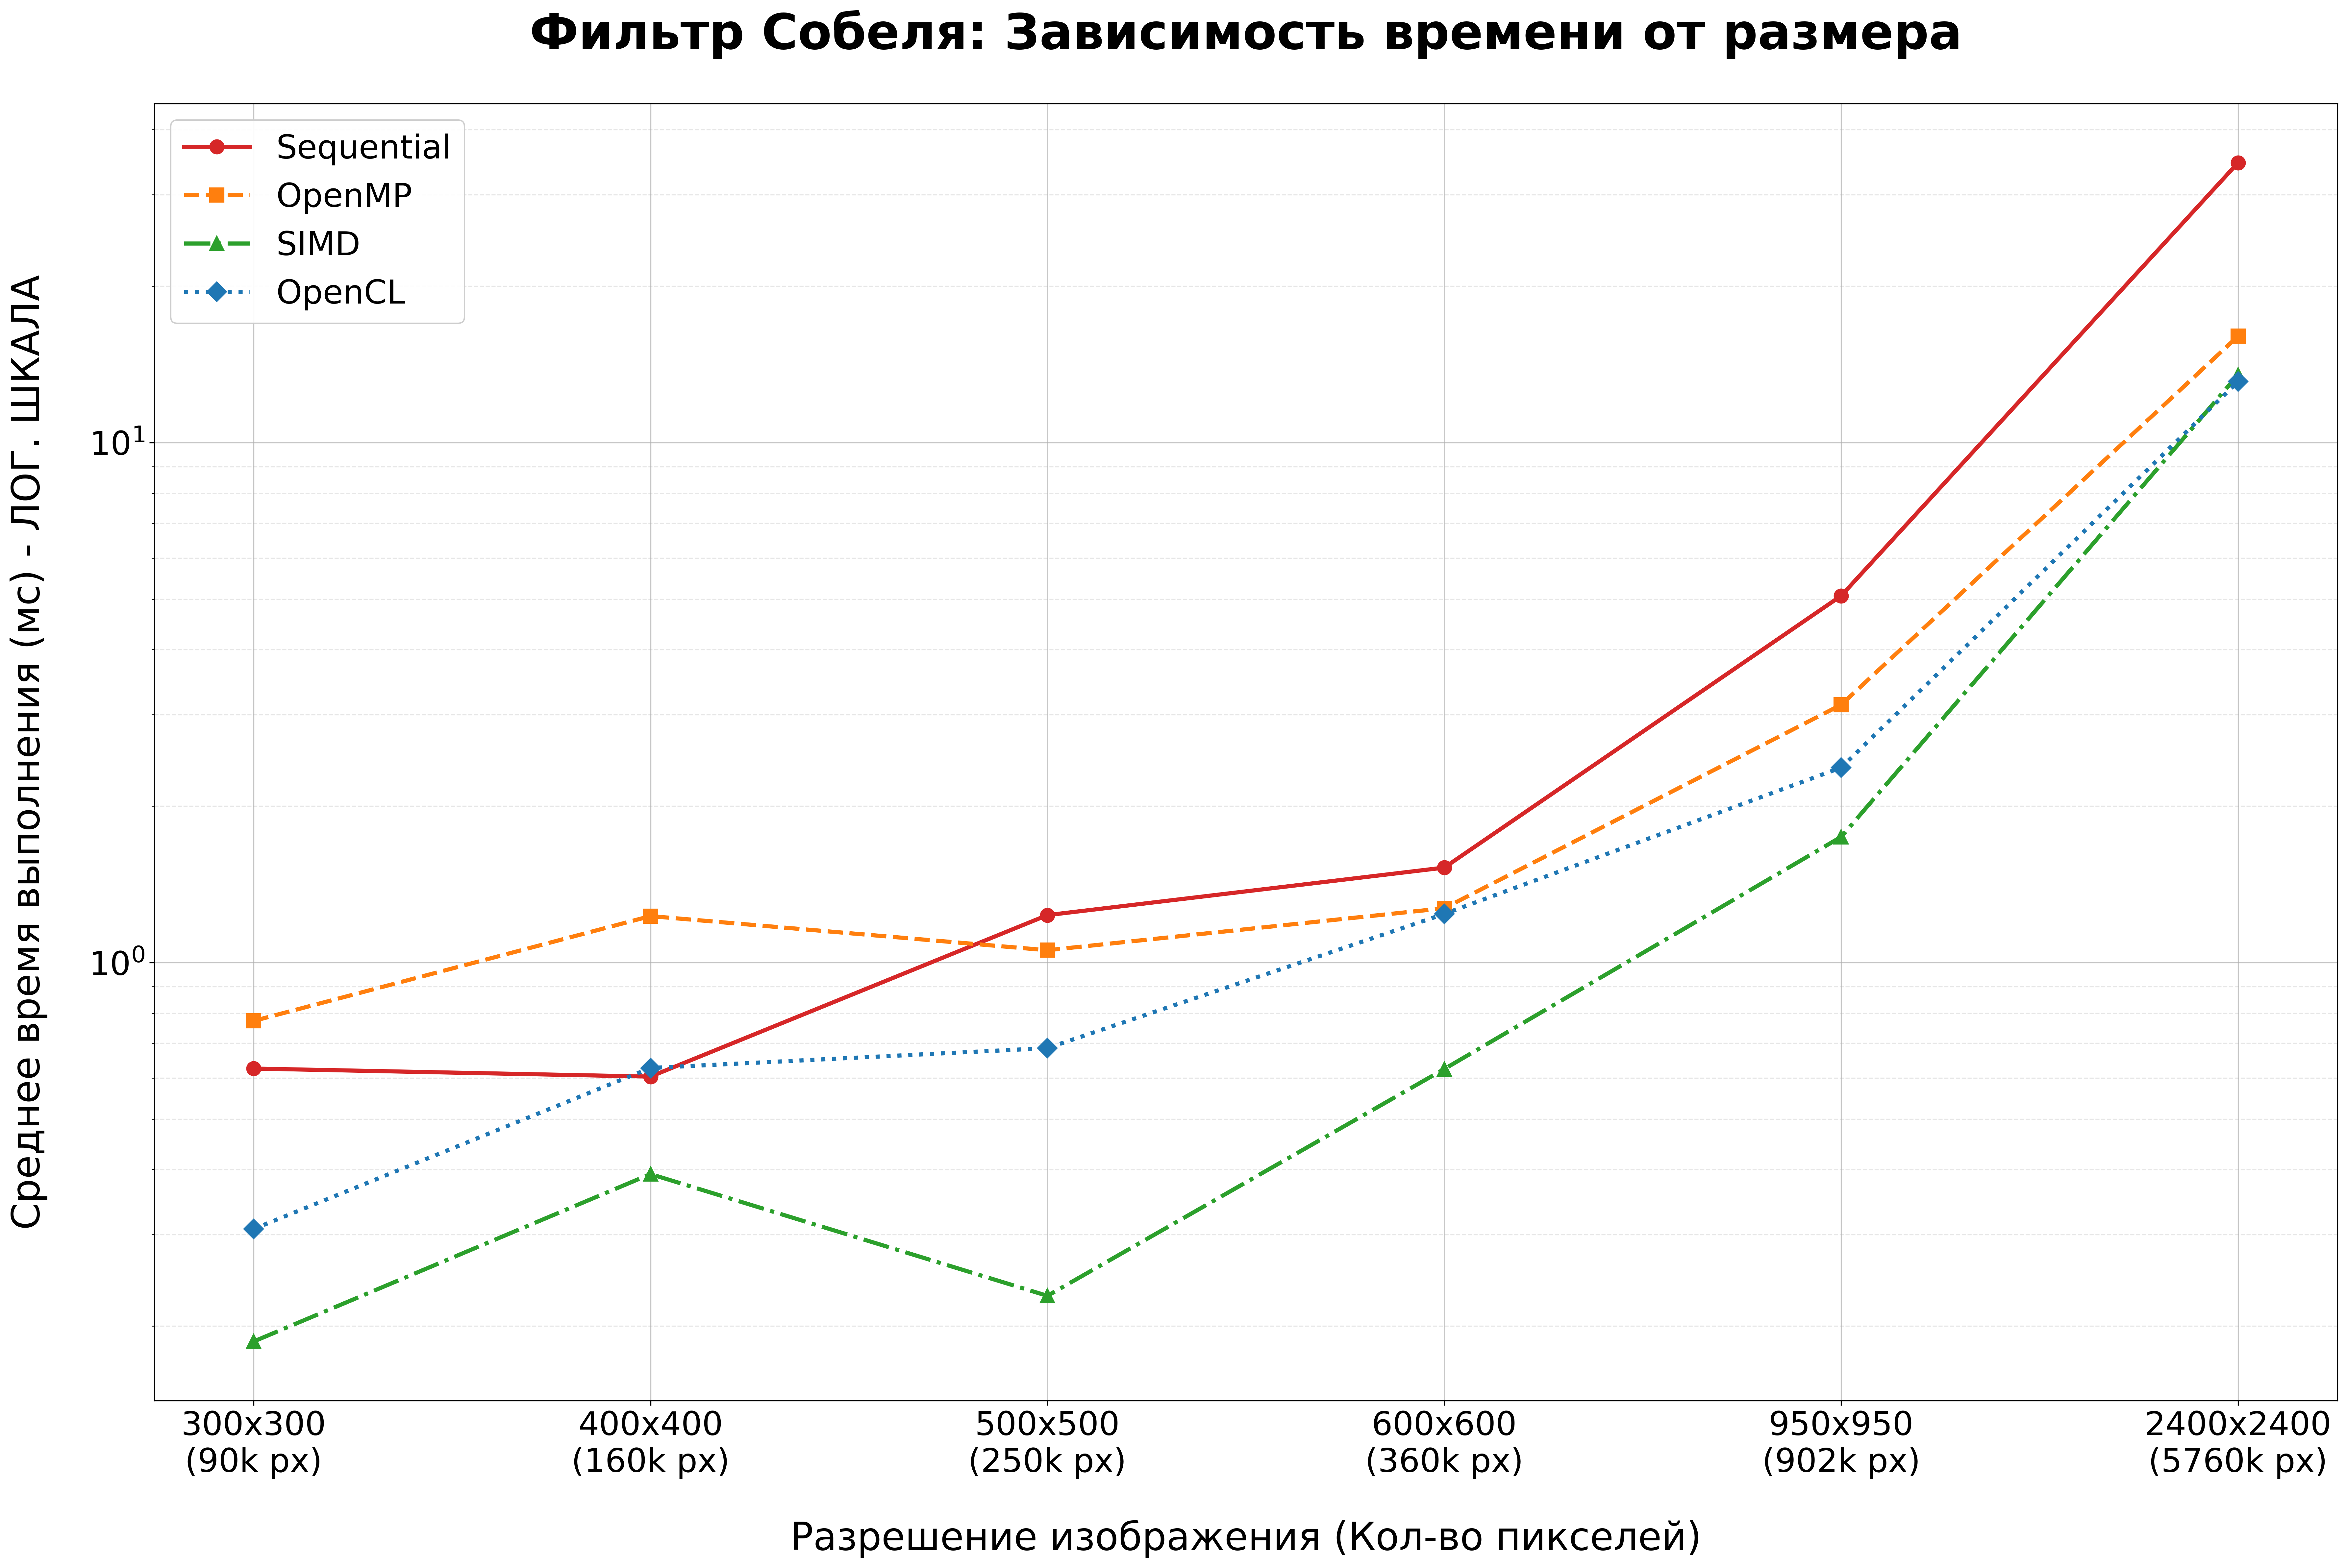
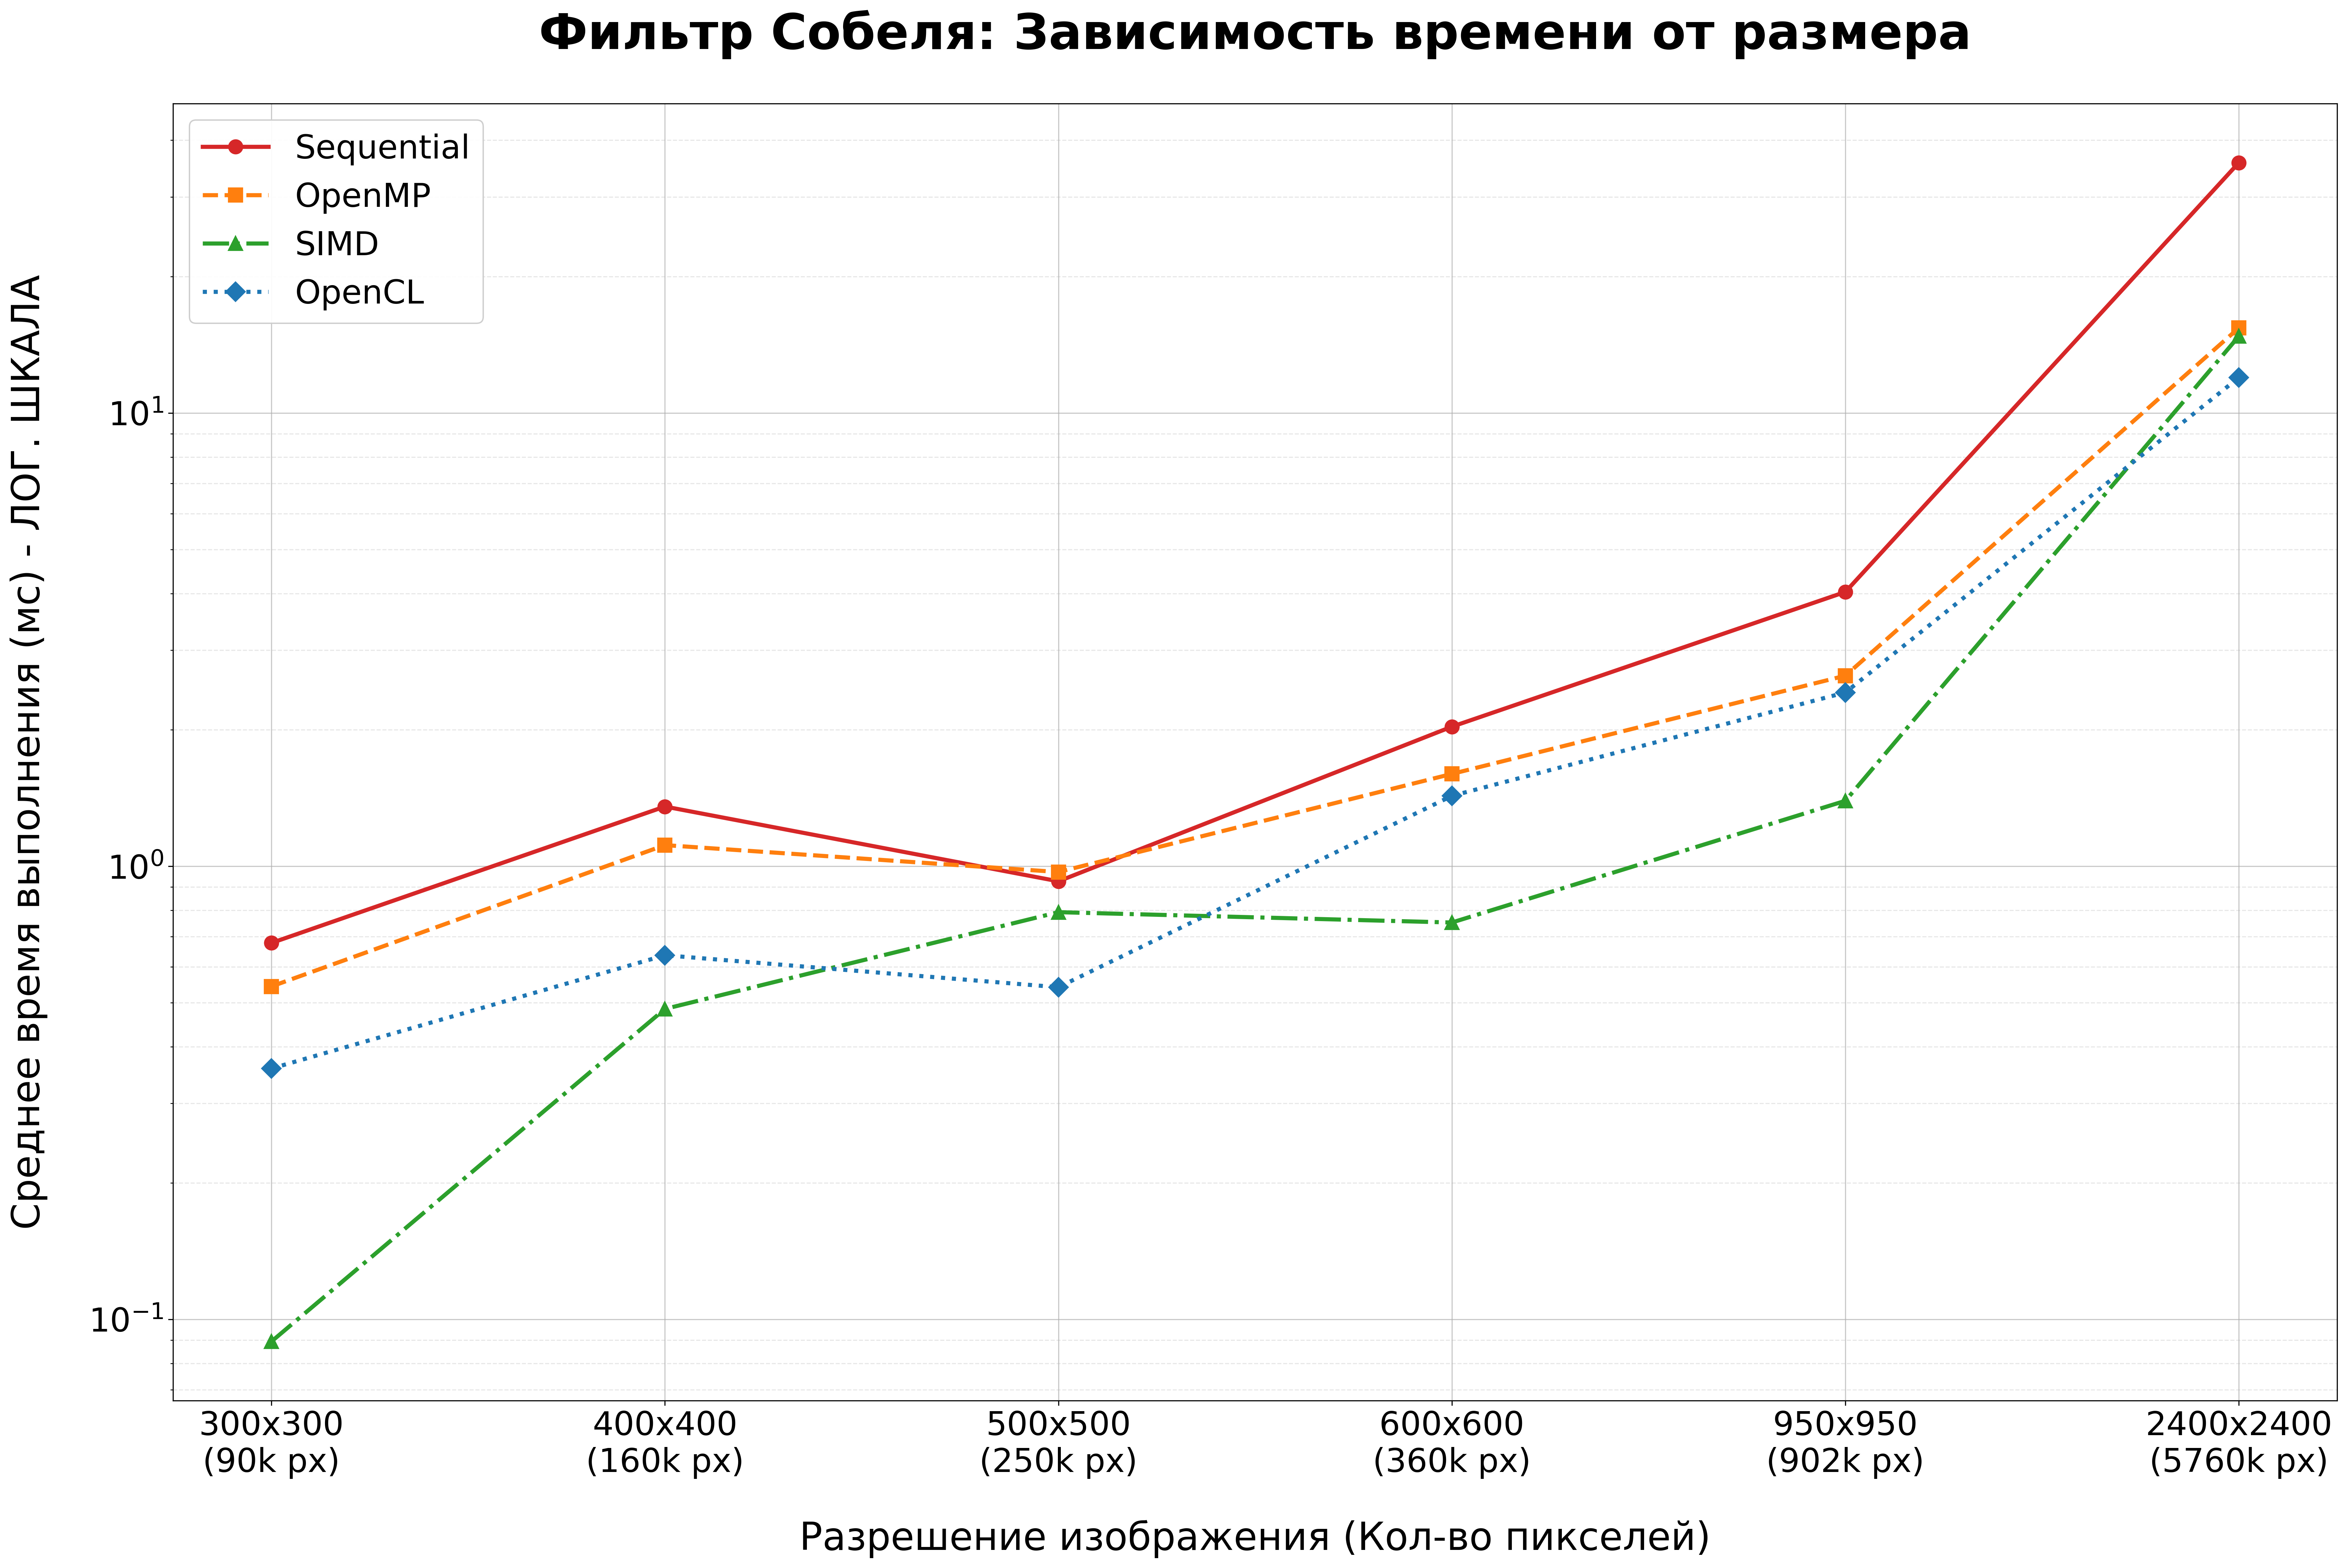
minor fix

diff --git a/main.py b/main.py
@@ -7,24 +7,24 @@ resolutions = ['300x300', '400x400', '500x500', '600x600', '950x950', '2400x2400
 pixels = [90000, 160000, 250000, 360000, 902500, 5760000]
 
 invert_data = {
-    'Sequential': [0.0155, 0.0334, 0.0775, 0.2523, 1.3344, 7.9665],
-    'OpenMP':     [0.3622, 0.3739, 0.5290, 0.8912, 1.3897, 6.2791],
-    'SIMD':       [0.0148, 0.0300, 0.0481, 0.4329, 1.0737, 6.5965],
-    'OpenCL':     [0.3712, 0.4646, 0.4417, 0.9628, 2.5910, 11.4874],
+    'Sequential': [0.0346, 0.0420, 0.0434, 0.3839, 1.0074, 5.3803],
+    'OpenMP':     [0.6078, 0.4911, 0.4350, 0.5095, 1.6469, 7.7196],
+    'SIMD':       [0.0172, 0.1136, 0.0690, 0.2911, 0.6726, 5.0472],
+    'OpenCL':     [0.4902, 0.5812, 0.6945, 1.4055, 2.6415, 9.2447],
 }
 
 median_data = {
-    'Sequential': [26.7090, 44.1900, 37.1961, 44.1509, 218.9529, 1323.2887],
-    'OpenMP':     [4.0899,  4.8766,  5.5758,  5.5720,  19.9564,  113.2147],
-    'SIMD':       [1.8800,  2.4666,  2.7516,  2.2350,  9.8878,   47.2766],
-    'OpenCL':     [0.3947,  0.3223,  0.5925,  1.0238,  3.1810,   13.0775],
+    'Sequential': [15.1532, 30.7538, 36.6511, 36.9428, 152.1254, 984.4886],
+    'OpenMP':     [5.0534,  6.6268,  5.7356,  5.6820,  47.8455,  117.4008],
+    'SIMD':       [0.7909,  4.2538,  2.4504,  3.4945,  7.4681,   47.1407],
+    'OpenCL':     [0.5023,  0.8760,  0.5615,  1.1622,  2.1135,   11.7677],
 }
 
 sobel_data = {
-    'Sequential': [0.6257, 0.6038, 1.2344, 1.5235, 5.0784, 34.5687],
-    'OpenMP':     [0.7726, 1.2291, 1.0567, 1.2727, 3.1338, 16.0339],
-    'SIMD':       [0.1868, 0.3921, 0.2287, 0.6244, 1.7458, 13.5108],
-    'OpenCL':     [0.3074, 0.6273, 0.6850, 1.2410, 2.3729, 13.1175],
+    'Sequential': [0.6774, 1.3545, 0.9265, 2.0325, 4.0301, 35.6913],
+    'OpenMP':     [0.5431, 1.1135, 0.9713, 1.5988, 2.6335, 15.4130],
+    'SIMD':       [0.0894, 0.4844, 0.7920, 0.7515, 1.3945, 14.7785],
+    'OpenCL':     [0.3579, 0.6363, 0.5409, 1.4300, 2.4181, 11.9788],
 }
 
 styles = {

diff --git a/main.cpp b/main.cpp
@@ -10,6 +10,7 @@
 #include <cstdint>
 #include <cstdio>
 #include <cstring>
+#include <filesystem>
 #include <functional>
 #include <iomanip>
 #include <iostream>
@@ -585,30 +586,37 @@ int main(int argc, char** argv) {
     std::cout << "Loaded " << input.width << "x" << input.height << " ("
               << input.pixels.size() / (1024.0 * 1024.0) << " MB)\n";
 
+    namespace fs = std::filesystem;
+    const fs::path input_stem = fs::path(input_path).stem();
+    const fs::path out_dir = fs::path("output") / input_stem;
+    fs::create_directories(out_dir);
+
     OpenClContext cl_ctx = InitOpenCl();
 
     auto bench = [&](const std::string& filter_name, const std::string& backend,
                      auto&& fn, const std::string& save_as = "") {
       const double avg = MeasureMilliseconds(fn, repeats);
-      if (!save_as.empty()) SavePng(save_as, fn());
+      if (!save_as.empty()) SavePng((out_dir / save_as).string(), fn());
       return BenchmarkRow{filter_name, backend, avg};
     };
 
     std::vector<BenchmarkRow> rows;
-    rows.push_back(bench("Inversion", "Sequential", [&] { return InvertSequential(input); }, "out_inv_seq.png"));
+    rows.push_back(bench("Inversion", "Sequential", [&] { return InvertSequential(input); }, "inversion.png"));
     rows.push_back(bench("Inversion", "OpenMP",     [&] { return InvertOpenMp(input); }));
     rows.push_back(bench("Inversion", "SIMD",       [&] { return InvertSimd(input); }));
     rows.push_back(bench("Inversion", "OpenCL",     [&] { return InvertOpenCl(cl_ctx, input); }));
 
-    rows.push_back(bench("Median 3x3", "Sequential", [&] { return MedianSequential(input); }, "out_med_seq.png"));
+    rows.push_back(bench("Median 3x3", "Sequential", [&] { return MedianSequential(input); }, "median.png"));
     rows.push_back(bench("Median 3x3", "OpenMP",     [&] { return MedianOpenMp(input); }));
     rows.push_back(bench("Median 3x3", "SIMD",       [&] { return MedianSimd(input); }));
     rows.push_back(bench("Median 3x3", "OpenCL",     [&] { return RunOpenCl2d(cl_ctx, cl_ctx.median_kernel, input); }));
 
-    rows.push_back(bench("Sobel Edges", "Sequential", [&] { return EdgeSequential(input); }, "out_edge_seq.png"));
+    rows.push_back(bench("Sobel Edges", "Sequential", [&] { return EdgeSequential(input); }, "edges.png"));
     rows.push_back(bench("Sobel Edges", "OpenMP",     [&] { return EdgeOpenMp(input); }));
     rows.push_back(bench("Sobel Edges", "SIMD",       [&] { return EdgeSimd(input); }));
     rows.push_back(bench("Sobel Edges", "OpenCL",     [&] { return RunOpenCl2d(cl_ctx, cl_ctx.sobel_kernel, input); }));
+
+    std::cout << "Saved results to " << out_dir.string() << "/\n";
 
     PrintTable(rows);
     std::FILE* csv = std::fopen("results.csv", "a");

diff --git a/REPORT.md b/REPORT.md
@@ -10,23 +10,23 @@
 
 | Размер | Мп | Sequential | OpenMP | SIMD (AVX2) | OpenCL |
 |--------|------|-----------|--------|-------------|--------|
-| 300×300 | 0.09 | 0.016 | 0.362     | **0.015**   | 0.371 |
-| 400×400 | 0.16 | 0.033 | 0.374     | **0.030**   | 0.465 |
-| 500×500 | 0.25 | 0.078 | 0.529     | **0.048**   | 0.442 |
+| 300×300 | 0.09 | 0.016 | 0.362     | 0.015       | 0.371 |
+| 400×400 | 0.16 | 0.033 | 0.374     | 0.030       | 0.465 |
+| 500×500 | 0.25 | 0.078 | 0.529     | 0.048       | 0.442 |
 | 600×600 | 0.36 | 0.252 | 0.891     | 0.433       | 0.963 |
-| 950×950 | 0.90 | 1.334 | 1.390     | **1.074**   | 2.591 |
+| 950×950 | 0.90 | 1.334 | 1.390     | 1.074       | 2.591 |
 | 2400×2400| 5.76| 7.967 | 6.279     | 6.597       | 11.487 |
 
 ### Медианный фильтр 3×3
 
 | Размер | Мп | Sequential | OpenMP | SIMD (AVX2) | OpenCL |
 |--------|------|-----------|--------|-------------|--------|
-| 300×300 | 0.09 | 26.71    | 4.09   | 1.88        | **0.39** |
-| 400×400 | 0.16 | 44.19    | 4.88   | 2.47        | **0.32** |
-| 500×500 | 0.25 | 37.20    | 5.58   | 2.75        | **0.59** |
-| 600×600 | 0.36 | 44.15    | 5.57   | 2.24        | **1.02** |
-| 950×950 | 0.90 | 218.95   | 19.96  | 9.89        | **3.18** |
-| 2400×2400 | 5.76 | 1323.29| 113.21 | 47.28       | **13.08** |
+| 300×300 | 0.09 | 26.71    | 4.09   | 1.88        |    0.39 |
+| 400×400 | 0.16 | 44.19    | 4.88   | 2.47        |    0.32 |
+| 500×500 | 0.25 | 37.20    | 5.58   | 2.75        |    0.59 |
+| 600×600 | 0.36 | 44.15    | 5.57   | 2.24        |    1.02 |
+| 950×950 | 0.90 | 218.95   | 19.96  | 9.89        |    3.18 |
+| 2400×2400 | 5.76 | 1323.29| 113.21 | 47.28       |    13.08 |
 
 ### Sobel (обнаружение границ)
 
@@ -45,8 +45,8 @@
 
 | Фильтр | OpenMP | SIMD | OpenCL |
 |--------|--------|------|--------|
-| Инверсия | ×1.27 | ×1.21 | ×0.69 (медленнее!) |
-| Медиана 3×3 | ×11.7 | ×28.0 | ×**101.2** |
+| Инверсия | ×1.27 | ×1.21 | ×0.69 |
+| Медиана 3×3 | ×11.7 | ×28.0 | ×101.2 |
 | Sobel | ×2.16 | ×2.56 | ×2.64 |
 
 ## Анализ зависимости от размера изображения N (пикселей)
@@ -88,4 +88,13 @@
 
 4. **OpenMP проигрывает на малых данных** из-за overhead'а потокового пула. Для библиотек с малыми входами лучше делать порог: если N < threshold → fallback на Sequential.
 
+# Запуск:
+cd C:\image_filters
 
+# Одна картинка
+.\image_filters.exe test_images\300x300.png 10
+
+# Все сразу
+foreach ($img in @('300x300','400x400','500x500','600x600','950x950','2400x2400')) {
+  .\image_filters.exe "test_images\$img.png" 10
+}